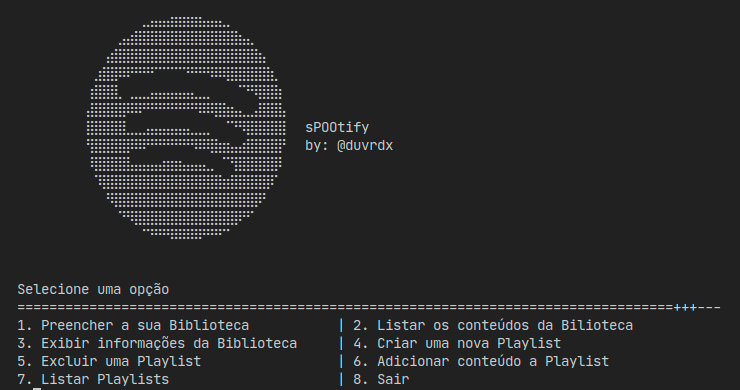
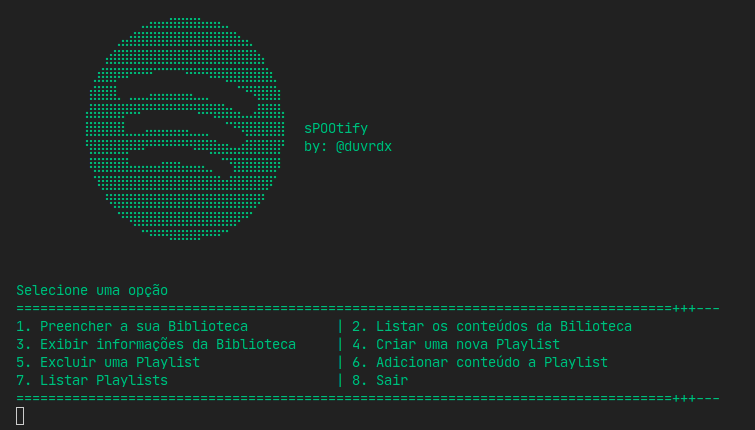
refat: fixing ui & readme

Changed region(s): [[0.0, 0.6462, 0.9635, 1.0], [0.0932, 0.0308, 0.5284, 0.6154]]

diff --git a/src/SpotifyApp.java b/src/SpotifyApp.java
@@ -1,8 +1,7 @@
 import java.util.ArrayList;
-import java.util.HashMap;
 import java.util.List;
-import java.util.Map;
 import java.util.Scanner;
+import java.io.*;
 
 public class SpotifyApp {
 
@@ -12,7 +11,7 @@ public class SpotifyApp {
     }
 
     public static void printSpootifyLogo(){
-        System.out.println("               ⢀⣠⣤⣤⣶⣶⣶⣶⣤⣤⣄⡀\n            ⢀⣤⣾⣿⣿⣿⣿⣿⣿⣿⣿⣿⣿⣿⣿⣷⣤⡀\n           ⣴⣿⣿⣿⣿⣿⣿⣿⣿⣿⣿⣿⣿⣿⣿⣿⣿⣿⣿⣦\n         ⢀⣾⣿⡿⠿⠛⠛⠛⠉⠉⠉⠉⠛⠛⠛⠿⠿⣿⣿⣿⣿⣿⣷⡀\n         ⣾⣿⣿⣇ ⣀⣀⣠⣤⣤⣤⣤⣤⣀⣀   ⠈⠙⠻⣿⣿⣷ \n        ⢠⣿⣿⣿⣿⡿⠿⠟⠛⠛⠛⠛⠛⠛⠻⠿⢿⣿⣶⣤⣀⣠⣿⣿⣿⡄\n        ⢸⣿⣿⣿⣿⣇⣀⣀⣤⣤⣤⣤⣤⣄⣀⣀  ⠉⠛⢿⣿⣿⣿⣿⡇  sPOOtify\n        ⠘⣿⣿⣿⣿⣿⠿⠿⠛⠛⠛⠛⠛⠛⠿⠿⣿⣶⣦⣤⣾⣿⣿⣿⣿⠃  by: @duvrdx\n         ⢿⣿⣿⣿⣿⣤⣤⣤⣤⣶⣶⣦⣤⣤⣄⡀⠈⠙⣿⣿⣿⣿⣿⡿\n         ⠈⢿⣿⣿⣿⣿⣿⣿⣿⣿⣿⣿⣿⣿⣿⣿⣷⣾⣿⣿⣿⣿⡿⠁\n           ⠻⣿⣿⣿⣿⣿⣿⣿⣿⣿⣿⣿⣿⣿⣿⣿⣿⣿⣿⠟\n            ⠈⠛⢿⣿⣿⣿⣿⣿⣿⣿⣿⣿⣿⣿⣿⡿⠛⠁\n               ⠈⠙⠛⠛⠿⠿⠿⠿⠛⠛⠋⠁       \n\n");
+        System.out.println("\u001B[32m\n               ⢀⣠⣤⣤⣶⣶⣶⣶⣤⣤⣄⡀\n            ⢀⣤⣾⣿⣿⣿⣿⣿⣿⣿⣿⣿⣿⣿⣿⣷⣤⡀\n           ⣴⣿⣿⣿⣿⣿⣿⣿⣿⣿⣿⣿⣿⣿⣿⣿⣿⣿⣿⣦\n         ⢀⣾⣿⡿⠿⠛⠛⠛⠉⠉⠉⠉⠛⠛⠛⠿⠿⣿⣿⣿⣿⣿⣷⡀\n         ⣾⣿⣿⣇ ⣀⣀⣠⣤⣤⣤⣤⣤⣀⣀   ⠈⠙⠻⣿⣿⣷ \n        ⢠⣿⣿⣿⣿⡿⠿⠟⠛⠛⠛⠛⠛⠛⠻⠿⢿⣿⣶⣤⣀⣠⣿⣿⣿⡄\n        ⢸⣿⣿⣿⣿⣇⣀⣀⣤⣤⣤⣤⣤⣄⣀⣀  ⠉⠛⢿⣿⣿⣿⣿⡇  sPOOtify\n        ⠘⣿⣿⣿⣿⣿⠿⠿⠛⠛⠛⠛⠛⠛⠿⠿⣿⣶⣦⣤⣾⣿⣿⣿⣿⠃  by: @duvrdx\n         ⢿⣿⣿⣿⣿⣤⣤⣤⣤⣶⣶⣦⣤⣤⣄⡀⠈⠙⣿⣿⣿⣿⣿⡿\n         ⠈⢿⣿⣿⣿⣿⣿⣿⣿⣿⣿⣿⣿⣿⣿⣿⣷⣾⣿⣿⣿⣿⡿⠁\n           ⠻⣿⣿⣿⣿⣿⣿⣿⣿⣿⣿⣿⣿⣿⣿⣿⣿⣿⣿⠟\n            ⠈⠛⢿⣿⣿⣿⣿⣿⣿⣿⣿⣿⣿⣿⣿⡿⠛⠁\n               ⠈⠙⠛⠛⠿⠿⠿⠿⠛⠛⠋⠁       \n\n");
     }
     
     public static SpootifyMusic createMusic(Scanner dataScanner){
@@ -171,6 +170,7 @@ public class SpotifyApp {
         System.out.println("O que deseja listar?");
         System.out.println("==================================================================================+++---");
         System.out.println("1. Músicas | 2. Podcasts | 3. Audiobooks | 4. Todos");
+        System.out.println("==================================================================================+++---");
         actualCommand = dataScanner.nextInt();
         dataScanner.nextLine();
 
@@ -203,6 +203,7 @@ public class SpotifyApp {
         }
         System.out.println("==================================================================================+++---");
         System.out.println("Pressione 'ENTER' para voltar ao menu");
+        System.out.println("==================================================================================+++---");
         dataScanner.nextLine();
 
     }
@@ -213,6 +214,7 @@ public class SpotifyApp {
         printSpootifyLogo();
         System.out.println("==================================================================================+++---");
         System.out.println("Digite o nome da playlist");
+        System.out.println("==================================================================================+++---");
         playlistTitle = dataScanner.nextLine();
         
         if(!menu.playlistExists(playlistTitle)){
@@ -223,6 +225,7 @@ public class SpotifyApp {
         }
         System.out.println("==================================================================================+++---");
         System.out.println("Pressione 'ENTER' para voltar ao menu");
+        System.out.println("==================================================================================+++---");
         dataScanner.nextLine();
     }
     
@@ -232,6 +235,7 @@ public class SpotifyApp {
         printSpootifyLogo();
         System.out.println("==================================================================================+++---");
         System.out.println("Digite o nome da playlist");
+        System.out.println("==================================================================================+++---");
         playlistTitle = dataScanner.nextLine();
         
         if(menu.playlistExists(playlistTitle)){
@@ -244,6 +248,7 @@ public class SpotifyApp {
 
         System.out.println("==================================================================================+++---");
         System.out.println("Pressione 'ENTER' para voltar ao menu");
+        System.out.println("==================================================================================+++---");
         dataScanner.nextLine();
     }
 
@@ -259,6 +264,7 @@ public class SpotifyApp {
         }
         System.out.println("==================================================================================+++---");
         System.out.println("Pressione 'ENTER' para voltar ao menu");
+        System.out.println("==================================================================================+++---");
         dataScanner.nextLine();
     }
 
@@ -280,6 +286,7 @@ public class SpotifyApp {
             System.out.println("==================================================================================+++---");
             System.out.println("1. Preencher a sua Biblioteca           | 2. Listar os conteúdos da Bilioteca\n3. Exibir informações da Biblioteca     | 4. Criar uma nova Playlist");
             System.out.println("5. Excluir uma Playlist                 | 6. Adicionar conteúdo a Playlist\n7. Listar Playlists                     | 8. Sair");
+            System.out.println("==================================================================================+++---");
             actualCommand = dataScanner.nextInt();
             dataScanner.nextLine();
 
@@ -302,6 +309,7 @@ public class SpotifyApp {
                     System.out.println(myMenu.getPlaylist("library").getDescription());
                     System.out.println("==================================================================================+++---");
                     System.out.println("Pressione 'ENTER' para voltar ao menu");
+                    System.out.println("==================================================================================+++---");
                     dataScanner.nextLine();
                     break;
                 
@@ -319,12 +327,14 @@ public class SpotifyApp {
                 case 6:
                     System.out.println("==================================================================================+++---");
                     System.out.println("Digite o nome da playlist");
+                    System.out.println("==================================================================================+++---");
                     playlistTitle = dataScanner.nextLine();
                     if(myMenu.playlistExists(playlistTitle)) addToPlaylist(dataScanner, playlistTitle, myMenu);
                     else{
                         System.out.println("Essa playlist não existe!");
                         System.out.println("==================================================================================+++---");
                         System.out.println("Pressione 'ENTER' para voltar ao menu");
+                        System.out.println("==================================================================================+++---");
                         dataScanner.nextLine();
                     }
                     break;
